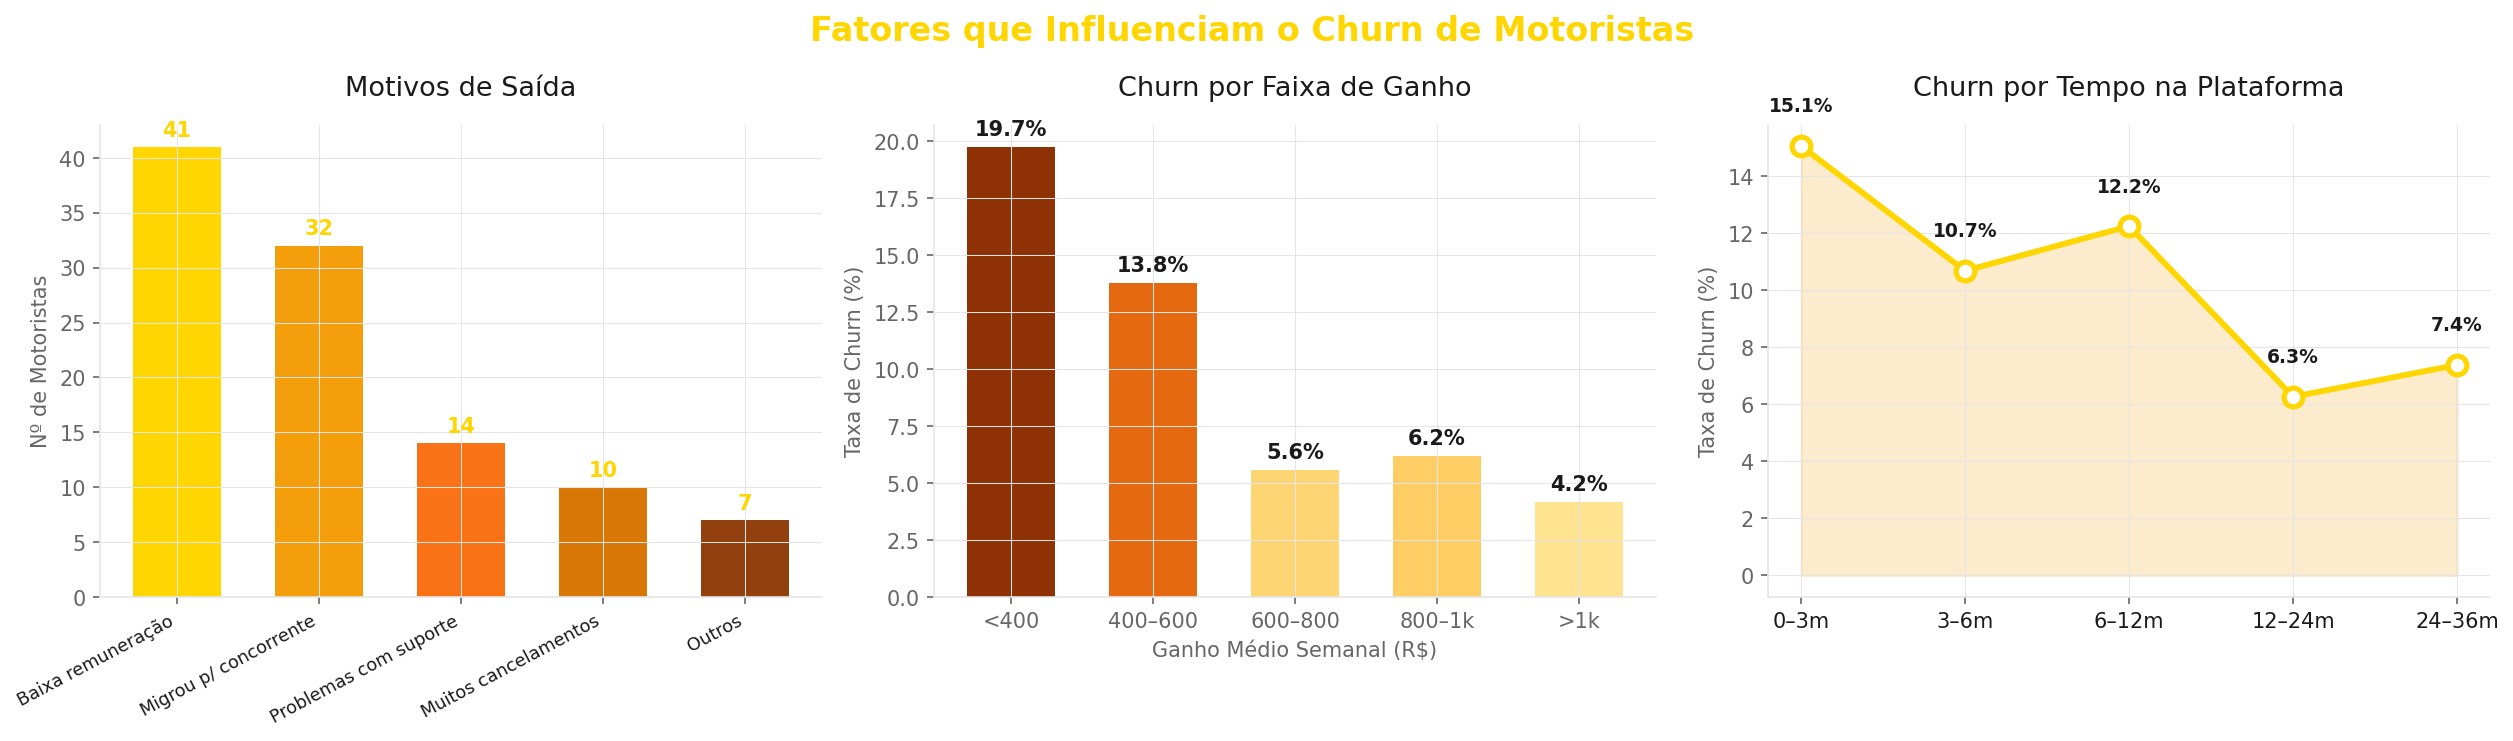
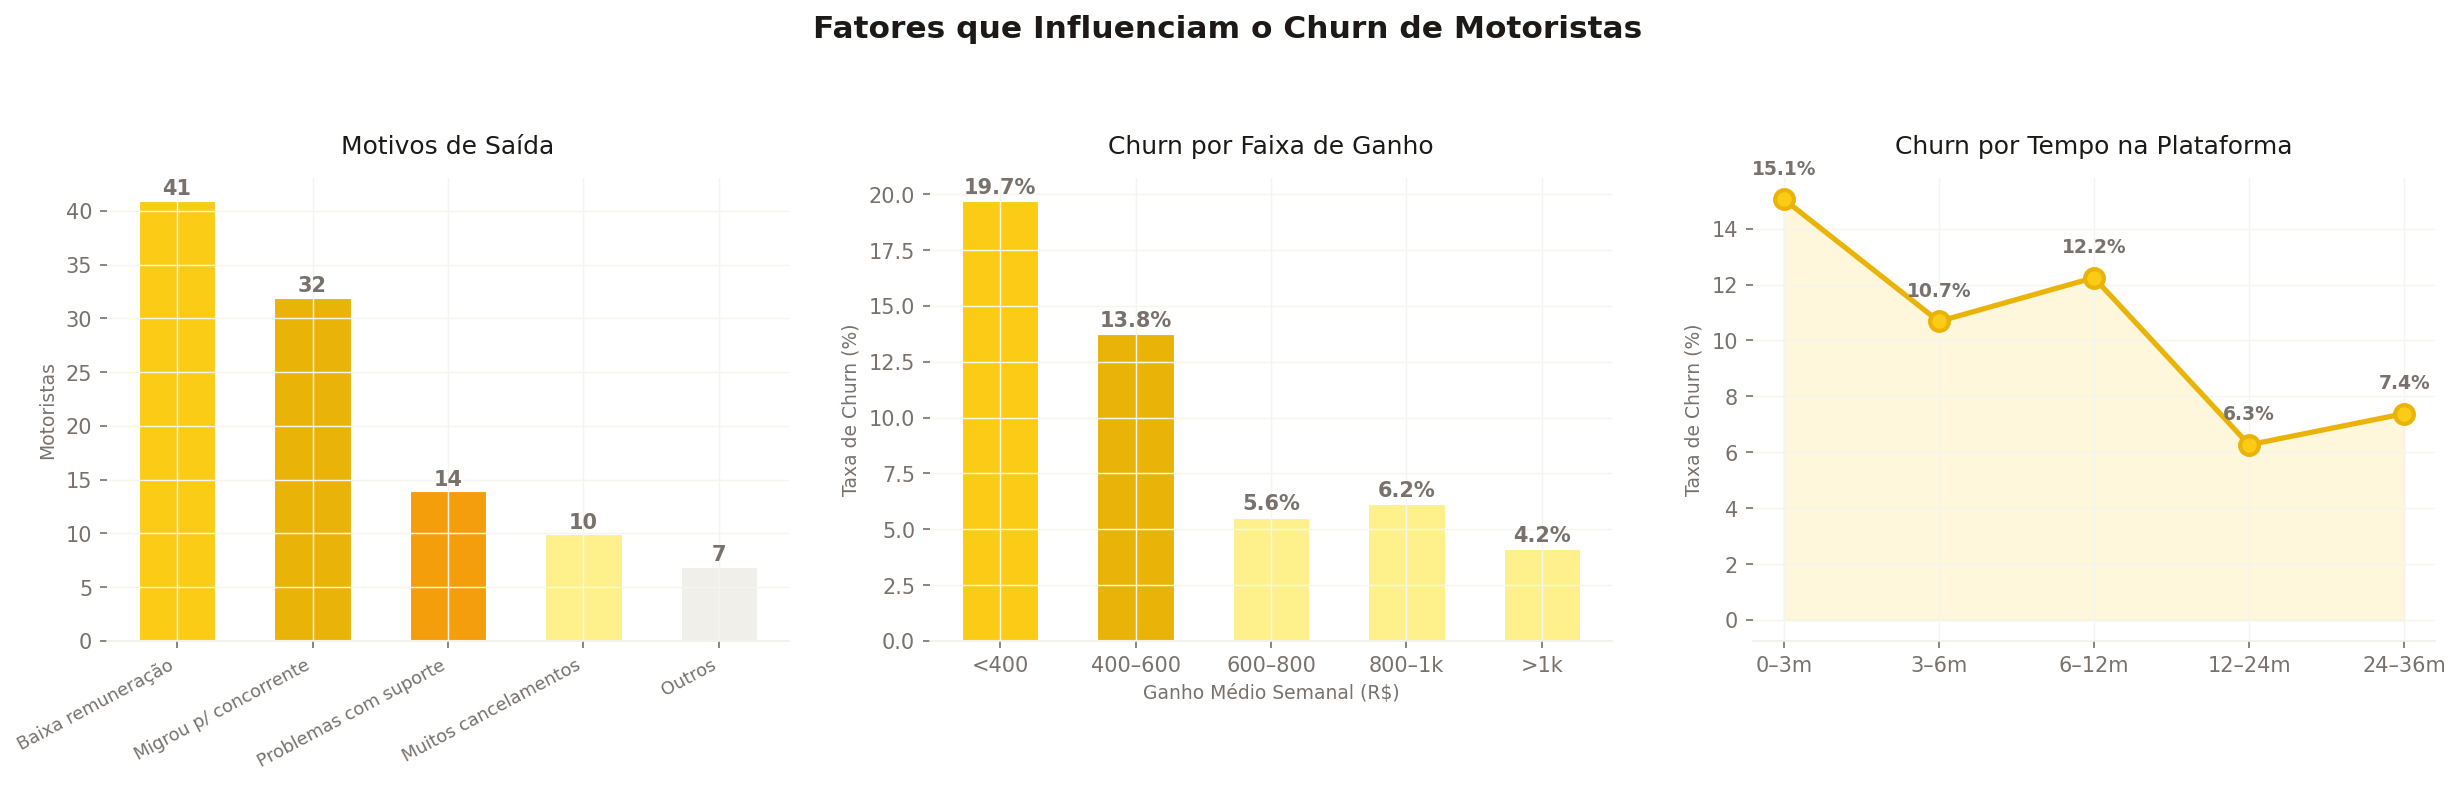
style: modern clean redesign with white bg and light yellow palette

diff --git a/gerar_graficos.py b/gerar_graficos.py
@@ -1,51 +1,55 @@
-"""Gera os 3 gráficos do projeto 99 e salva como PNG."""
+"""Gera os 3 gráficos do projeto 99 — design moderno, fundo branco."""
 import matplotlib
 matplotlib.use("Agg")
 import pandas as pd
 import numpy as np
 import matplotlib.pyplot as plt
+import matplotlib.patches as mpatches
 import seaborn as sns
 from matplotlib.colors import LinearSegmentedColormap
 import warnings
 warnings.filterwarnings("ignore")
 
+# ── Paleta moderna — branco + amarelos claros ────────────────
 BG      = "#FFFFFF"
 CARD    = "#FFFFFF"
-BORDER  = "#E5E5E5"
-TEXT    = "#1A1A1A"
-MUTED   = "#666666"
+SUBTLE  = "#FEFCE8"   # amarelo quase branco — fill de área
+BORDER  = "#F0EFE9"   # borda muito sutil
+TEXT    = "#1C1917"   # quase preto
+MUTED   = "#78716C"   # cinza quente
 
-# Paleta 99 — tons de amarelo
-Y1 = "#FFD600"   # amarelo vivo  → Ativo / destaque
-Y2 = "#F59E0B"   # âmbar dourado → intermediário
-Y3 = "#F97316"   # laranja âmbar → Churn / alerta
-Y4 = "#D97706"   # âmbar escuro  → 4º tom
-Y5 = "#92400E"   # castanho âmbar→ 5º tom
+Y_BRIGHT = "#FACC15"  # amarelo vivo — Ativo / destaque
+Y_MID    = "#EAB308"  # dourado — linha / referência
+Y_LIGHT  = "#FEF08A"  # amarelo claro — fill
+Y_DEEP   = "#CA8A04"  # âmbar escuro — Churn / contraste
+Y_WARM   = "#F59E0B"  # âmbar médio — gradiente
 
-CORES_BARRA   = [Y1, Y2, Y3, Y4, Y5]
-CORES_STATUS  = [Y1, Y3]          # Ativo=amarelo, Churn=laranja
+CORES_STATUS = [Y_BRIGHT, Y_DEEP]   # Ativo, Churn
 
 plt.rcParams.update({
     "figure.facecolor":  BG,
-    "axes.facecolor":    CARD,
+    "axes.facecolor":    BG,
     "axes.edgecolor":    BORDER,
     "axes.labelcolor":   MUTED,
     "axes.titlecolor":   TEXT,
-    "axes.titlesize":    13,
-    "axes.labelsize":    10,
-    "axes.titlepad":     14,
+    "axes.titlesize":    12,
+    "axes.labelsize":    9,
+    "axes.titlepad":     12,
     "axes.spines.top":   False,
     "axes.spines.right": False,
+    "axes.spines.left":  False,
+    "axes.spines.bottom": True,
     "axes.grid":         True,
-    "grid.color":        BORDER,
-    "grid.linewidth":    0.5,
+    "grid.color":        "#F5F5F0",
+    "grid.linewidth":    0.7,
     "xtick.color":       MUTED,
     "ytick.color":       MUTED,
     "text.color":        TEXT,
     "font.family":       "DejaVu Sans",
-    "legend.facecolor":  CARD,
+    "legend.facecolor":  BG,
     "legend.edgecolor":  BORDER,
     "legend.labelcolor": TEXT,
+    "legend.framealpha": 1,
 })
 
 np.random.seed(42)
@@ -82,163 +86,178 @@ df.loc[df["churn"]==1,"motivo_saida"] = np.random.choice(
     motivos, df["churn"].sum(), p=[0.35,0.28,0.17,0.13,0.07])
 df["motivo_saida"] = df["motivo_saida"].fillna("—")
 
-# ── FIG 1: Visão Geral ──────────────────────────────────────────────────────
+# ── FIG 1: Visão Geral ──────────────────────────────────────
 fig, axes = plt.subplots(2, 2, figsize=(15, 10))
 fig.patch.set_facecolor(BG)
 fig.suptitle("Análise de Retenção de Motoristas — 99",
-             fontsize=18, fontweight="bold", color=Y4, y=1.01)
+             fontsize=17, fontweight="bold", color=TEXT, y=1.01)
 
-# 1a. Rosca — distribuição de status
-ax = axes[0,0]; ax.set_facecolor(CARD)
+# 1a. Rosca — status
+ax = axes[0,0]; ax.set_facecolor(BG); ax.axis("off")
 contagem = df["status"].value_counts()
 wedges, _, autotexts = ax.pie(
     contagem, labels=None, autopct="%1.1f%%",
-    colors=CORES_STATUS, startangle=90, pctdistance=0.75,
-    wedgeprops=dict(edgecolor=BG, linewidth=3, width=0.55))
+    colors=CORES_STATUS, startangle=90, pctdistance=0.78,
+    wedgeprops=dict(edgecolor=BG, linewidth=4, width=0.5))
 for at in autotexts:
-    at.set_fontsize(13); at.set_fontweight("bold"); at.set_color("white")
-ax.legend(["Ativo","Inativo (Churn)"], loc="center", fontsize=10,
-          facecolor=CARD, edgecolor=BORDER, labelcolor=TEXT)
-ax.text(0, 0, f"{df['churn'].sum()}\nchurn",
-        ha="center", va="center", fontsize=12, color=Y3, fontweight="bold")
-ax.set_title("Distribuição de Status", color=TEXT)
+    at.set_fontsize(12); at.set_fontweight("bold"); at.set_color("white")
+churn_n = df["churn"].sum()
+ativo_n = N - churn_n
+ax.text(0, 0.12, f"{ativo_n}", ha="center", va="center",
+        fontsize=22, color=Y_BRIGHT, fontweight="bold")
+ax.text(0, -0.12, f"{churn_n}", ha="center", va="center",
+        fontsize=16, color=Y_DEEP, fontweight="bold")
+legend_els = [
+    mpatches.Patch(facecolor=Y_BRIGHT, label=f"Ativo  ({ativo_n})"),
+    mpatches.Patch(facecolor=Y_DEEP,   label=f"Churn  ({churn_n})"),
+]
+ax.legend(handles=legend_els, loc="lower center", bbox_to_anchor=(0.5,-0.08),
+          ncol=2, fontsize=9, frameon=False)
+ax.set_title("Distribuição de Status", color=TEXT, fontsize=12, pad=10)
 
-# 1b. Boxplot — avaliação vs status
-ax = axes[0,1]; ax.set_facecolor(CARD)
+# 1b. Boxplot — avaliação
+ax = axes[0,1]; ax.set_facecolor(BG)
 grupos = [df[df["churn"]==0]["avaliacao_media"], df[df["churn"]==1]["avaliacao_media"]]
-bp = ax.boxplot(grupos, patch_artist=True, widths=0.45,
-                medianprops=dict(color="white", linewidth=2.5),
-                whiskerprops=dict(color=MUTED, linewidth=1.5),
-                capprops=dict(color=MUTED, linewidth=1.5),
-                flierprops=dict(marker="o", markerfacecolor=MUTED, markersize=4, alpha=0.5))
-bp["boxes"][0].set_facecolor(Y1); bp["boxes"][0].set_edgecolor(Y2)
-bp["boxes"][1].set_facecolor(Y3); bp["boxes"][1].set_edgecolor(Y4)
-ax.set_xticks([1,2]); ax.set_xticklabels(["Ativo","Inativo (Churn)"], color=TEXT)
-ax.set_ylabel("Avaliação Média")
-ax.set_title("Avaliação Média × Status", color=TEXT)
-ax.axhline(4.0, color=Y4, linewidth=1.8, linestyle="--", alpha=0.85, label="Limite 4.0")
-ax.legend(fontsize=9)
-ax.spines["left"].set_color(BORDER); ax.spines["bottom"].set_color(BORDER)
+bp = ax.boxplot(grupos, patch_artist=True, widths=0.38,
+                medianprops=dict(color=TEXT, linewidth=2.2),
+                whiskerprops=dict(color=MUTED, linewidth=1.3),
+                capprops=dict(color=MUTED, linewidth=1.3),
+                flierprops=dict(marker="o", markerfacecolor=BORDER,
+                                markeredgecolor=MUTED, markersize=4, alpha=0.7))
+bp["boxes"][0].set_facecolor(Y_LIGHT); bp["boxes"][0].set_edgecolor(Y_MID)
+bp["boxes"][1].set_facecolor(Y_WARM+"44"); bp["boxes"][1].set_edgecolor(Y_DEEP)
+ax.set_xticks([1,2]); ax.set_xticklabels(["Ativo","Inativo (Churn)"], color=TEXT, fontsize=10)
+ax.set_ylabel("Avaliação Média"); ax.set_title("Avaliação Média × Status")
+ax.axhline(4.0, color=Y_MID, linewidth=1.5, linestyle="--", alpha=0.9, label="Limite 4.0")
+ax.legend(fontsize=9, frameon=False)
+ax.spines["bottom"].set_color(BORDER)
 
 # 1c. Barras horizontais — churn por cidade
-ax = axes[1,0]; ax.set_facecolor(CARD)
+ax = axes[1,0]; ax.set_facecolor(BG)
 churn_cidade = df.groupby("cidade")["churn"].mean().sort_values()*100
 media = churn_cidade.mean()
-vals = churn_cidade.values
-norm = (vals - vals.min()) / (vals.max() - vals.min() + 1e-9)
-cores_c = [plt.cm.YlOrBr(0.3 + 0.6*v) for v in norm]
-bars = ax.barh(churn_cidade.index, vals, color=cores_c, edgecolor="none", height=0.6)
-ax.axvline(media, color=Y4, linewidth=1.6, linestyle="--",
-           alpha=0.8, label=f"Média: {media:.1f}%")
-ax.set_xlabel("Taxa de Churn (%)")
-ax.set_title("Taxa de Churn por Cidade", color=TEXT)
-ax.legend(fontsize=9)
-ax.spines["left"].set_color(BORDER); ax.spines["bottom"].set_color(BORDER)
-for bar, val in zip(bars, vals):
-    ax.text(val+0.3, bar.get_y()+bar.get_height()/2,
-            f"{val:.1f}%", va="center", fontsize=9, color=TEXT)
+cores_c = [Y_BRIGHT if v == churn_cidade.max() else Y_LIGHT for v in churn_cidade.values]
+bars = ax.barh(churn_cidade.index, churn_cidade.values,
+               color=cores_c, edgecolor=BORDER, linewidth=0.8, height=0.55)
+ax.axvline(media, color=Y_MID, linewidth=1.4, linestyle="--",
+           alpha=0.9, label=f"Média  {media:.1f}%")
+ax.set_xlabel("Taxa de Churn (%)"); ax.set_title("Taxa de Churn por Cidade")
+ax.legend(fontsize=9, frameon=False)
+ax.spines["bottom"].set_color(BORDER)
+ax.grid(axis="x", color="#F5F5F0", linewidth=0.7)
+ax.grid(axis="y", visible=False)
+for bar, val in zip(bars, churn_cidade.values):
+    ax.text(val+0.2, bar.get_y()+bar.get_height()/2,
+            f"{val:.1f}%", va="center", fontsize=9,
+            color=TEXT, fontweight="bold" if val==churn_cidade.max() else "normal")
 
-# 1d. Scatter — corridas vs ganho
-ax = axes[1,1]; ax.set_facecolor(CARD)
+# 1d. Scatter — corridas vs ganho (com jitter)
+ax = axes[1,1]; ax.set_facecolor(BG)
 mask = df["churn"]==0
-ax.scatter(df[mask]["corridas_por_semana"],  df[mask]["ganho_medio_semanal_r$"],
-           c=Y1, alpha=0.30, s=20, label="Ativo")
-ax.scatter(df[~mask]["corridas_por_semana"], df[~mask]["ganho_medio_semanal_r$"],
-           c=Y3, alpha=0.40, s=20, label="Churn")
-ax.axhline(500, color=Y4, linewidth=1.5, linestyle="--", alpha=0.85, label="R$ 500/sem")
+jx_a = df[mask]["corridas_por_semana"]  + np.random.uniform(-0.35,0.35,mask.sum())
+jx_c = df[~mask]["corridas_por_semana"] + np.random.uniform(-0.35,0.35,(~mask).sum())
+ax.scatter(jx_a, df[mask]["ganho_medio_semanal_r$"],
+           c=Y_BRIGHT, alpha=0.35, s=16, label="Ativo", linewidths=0)
+ax.scatter(jx_c, df[~mask]["ganho_medio_semanal_r$"],
+           c=Y_DEEP, alpha=0.45, s=16, label="Churn", linewidths=0)
+ax.axhline(500, color=Y_MID, linewidth=1.5, linestyle="--", alpha=0.9, label="R$ 500/sem")
 ax.set_xlabel("Corridas por Semana"); ax.set_ylabel("Ganho Médio Semanal (R$)")
-ax.set_title("Corridas × Ganho por Status", color=TEXT)
-ax.legend(fontsize=9)
-ax.spines["left"].set_color(BORDER); ax.spines["bottom"].set_color(BORDER)
+ax.set_title("Corridas × Ganho por Status")
+ax.legend(fontsize=9, frameon=False)
+ax.spines["bottom"].set_color(BORDER)
 
-plt.tight_layout()
+plt.tight_layout(pad=2.5)
 plt.savefig("fig1 visao geral.png", dpi=150, bbox_inches="tight", facecolor=BG)
 plt.close()
-print("✅ fig1 salva")
+print("fig1 salva")
 
-# ── FIG 2: Fatores ──────────────────────────────────────────────────────────
-fig, axes = plt.subplots(1, 3, figsize=(17, 5))
+# ── FIG 2: Fatores ──────────────────────────────────────────
+fig, axes = plt.subplots(1, 3, figsize=(17, 5.5))
 fig.patch.set_facecolor(BG)
 fig.suptitle("Fatores que Influenciam o Churn de Motoristas",
-             fontsize=16, fontweight="bold", color=Y1)
+             fontsize=15, fontweight="bold", color=TEXT)
 
 # 2a. Motivos de saída
-ax = axes[0]; ax.set_facecolor(CARD)
+ax = axes[0]; ax.set_facecolor(BG)
 motivos_count = df[df["churn"]==1]["motivo_saida"].value_counts()
+pal = [Y_BRIGHT, Y_MID, Y_WARM, Y_LIGHT, BORDER]
 bars = ax.bar(range(len(motivos_count)), motivos_count.values,
-              color=CORES_BARRA[:len(motivos_count)], edgecolor="none", width=0.62)
+              color=pal[:len(motivos_count)], edgecolor=BG, linewidth=1.5, width=0.58)
 ax.set_xticks(range(len(motivos_count)))
-ax.set_xticklabels(motivos_count.index, rotation=28, ha="right", fontsize=8.5, color=TEXT)
-ax.set_ylabel("Nº de Motoristas")
-ax.set_title("Motivos de Saída", color=TEXT)
-ax.spines["left"].set_color(BORDER); ax.spines["bottom"].set_color(BORDER)
+ax.set_xticklabels(motivos_count.index, rotation=28, ha="right", fontsize=8.5)
+ax.set_ylabel("Motoristas"); ax.set_title("Motivos de Saída")
+ax.spines["bottom"].set_color(BORDER)
 for bar, val in zip(bars, motivos_count.values):
-    ax.text(bar.get_x()+bar.get_width()/2, bar.get_height()+1,
-            str(val), ha="center", fontsize=10, fontweight="bold", color=Y1)
+    ax.text(bar.get_x()+bar.get_width()/2, bar.get_height()+0.5,
+            str(val), ha="center", fontsize=10, fontweight="bold", color=MUTED)
 
 # 2b. Churn por faixa de ganho
-ax = axes[1]; ax.set_facecolor(CARD)
+ax = axes[1]; ax.set_facecolor(BG)
 bins = [0,400,600,800,1000,1800]; labels_ganho=["<400","400–600","600–800","800–1k",">1k"]
 df["faixa_ganho"] = pd.cut(df["ganho_medio_semanal_r$"], bins=bins, labels=labels_ganho)
 churn_ganho = df.groupby("faixa_ganho", observed=True)["churn"].mean()*100
-vals_g = churn_ganho.values
-norm_g = (vals_g - vals_g.min()) / (vals_g.max() - vals_g.min() + 1e-9)
-cores_g = [plt.cm.YlOrBr(0.25 + 0.65*v) for v in norm_g]
-bars = ax.bar(churn_ganho.index, vals_g, color=cores_g, edgecolor="none", width=0.62)
+cores_g = [Y_BRIGHT if v == churn_ganho.max()
+           else Y_MID if v >= churn_ganho.quantile(0.6)
+           else Y_LIGHT for v in churn_ganho.values]
+bars = ax.bar(churn_ganho.index, churn_ganho.values,
+              color=cores_g, edgecolor=BG, linewidth=1.5, width=0.58)
 ax.set_xlabel("Ganho Médio Semanal (R$)"); ax.set_ylabel("Taxa de Churn (%)")
-ax.set_title("Churn por Faixa de Ganho", color=TEXT)
-ax.spines["left"].set_color(BORDER); ax.spines["bottom"].set_color(BORDER)
-for bar, val in zip(bars, vals_g):
-    ax.text(bar.get_x()+bar.get_width()/2, bar.get_height()+0.5,
-            f"{val:.1f}%", ha="center", fontsize=10, fontweight="bold", color=TEXT)
+ax.set_title("Churn por Faixa de Ganho")
+ax.spines["bottom"].set_color(BORDER)
+for bar, val in zip(bars, churn_ganho.values):
+    ax.text(bar.get_x()+bar.get_width()/2, bar.get_height()+0.3,
+            f"{val:.1f}%", ha="center", fontsize=10, fontweight="bold", color=MUTED)
 
 # 2c. Churn por tempo na plataforma
-ax = axes[2]; ax.set_facecolor(CARD)
+ax = axes[2]; ax.set_facecolor(BG)
 bins_t=[0,3,6,12,24,36]; labels_t=["0–3m","3–6m","6–12m","12–24m","24–36m"]
 df["faixa_tempo"] = pd.cut(df["tempo_plataforma_meses"], bins=bins_t, labels=labels_t)
 churn_tempo = df.groupby("faixa_tempo", observed=True)["churn"].mean()*100
-xs = range(len(churn_tempo))
-ax.fill_between(xs, churn_tempo.values, alpha=0.20, color=Y2)
-ax.plot(xs, churn_tempo.values, color=Y1, linewidth=2.8, marker="o", markersize=9,
-        markerfacecolor=BG, markeredgecolor=Y1, markeredgewidth=2.5)
-ax.set_xticks(xs); ax.set_xticklabels(churn_tempo.index, color=TEXT)
-ax.set_ylabel("Taxa de Churn (%)")
-ax.set_title("Churn por Tempo na Plataforma", color=TEXT)
-ax.spines["left"].set_color(BORDER); ax.spines["bottom"].set_color(BORDER)
+xs = list(range(len(churn_tempo)))
+ax.fill_between(xs, churn_tempo.values, alpha=0.15, color=Y_BRIGHT)
+ax.plot(xs, churn_tempo.values, color=Y_MID, linewidth=2.5,
+        marker="o", markersize=9, markerfacecolor=Y_BRIGHT,
+        markeredgecolor=Y_MID, markeredgewidth=2)
+ax.set_xticks(xs); ax.set_xticklabels(churn_tempo.index)
+ax.set_ylabel("Taxa de Churn (%)"); ax.set_title("Churn por Tempo na Plataforma")
+ax.spines["bottom"].set_color(BORDER)
 for i, val in enumerate(churn_tempo.values):
-    ax.text(i, val+1.2, f"{val:.1f}%", ha="center", fontsize=9, fontweight="bold", color=TEXT)
+    ax.text(i, val+0.9, f"{val:.1f}%", ha="center", fontsize=9,
+            fontweight="bold", color=MUTED)
 
-plt.tight_layout()
+plt.tight_layout(pad=2.5)
 plt.savefig("fig2 fatores churn.png", dpi=150, bbox_inches="tight", facecolor=BG)
 plt.close()
-print("✅ fig2 salva")
+print("fig2 salva")
 
-# ── FIG 3: Correlação ───────────────────────────────────────────────────────
+# ── FIG 3: Correlação ───────────────────────────────────────
 fig, ax = plt.subplots(figsize=(10,7))
-fig.patch.set_facecolor(BG); ax.set_facecolor(CARD)
+fig.patch.set_facecolor(BG); ax.set_facecolor(BG)
 
 cols_num = ["churn","avaliacao_media","ganho_medio_semanal_r$","corridas_por_semana",
             "cancelamentos_mes","tempo_plataforma_meses","suporte_acionado","bonus_recebido"]
 corr = df[cols_num].corr()
-labels_pt = ["Churn","Avaliação","Ganho Sem.","Corridas/Sem.","Cancelamentos","Tempo Plataf.","Suporte","Bônus"]
+labels_pt = ["Churn","Avaliação","Ganho Sem.","Corridas/Sem.",
+             "Cancelamentos","Tempo Plataf.","Suporte","Bônus"]
 
 mask = np.triu(np.ones_like(corr, dtype=bool))
-cmap_99 = LinearSegmentedColormap.from_list("99amber", [Y5, "#2A2A2A", Y1])
+cmap_99 = LinearSegmentedColormap.from_list("99light", ["#FFFBEB", Y_LIGHT, Y_BRIGHT, Y_MID])
 
 sns.heatmap(corr, mask=mask, annot=True, fmt=".2f", cmap=cmap_99,
-            center=0, ax=ax, xticklabels=labels_pt, yticklabels=labels_pt,
-            linewidths=0.8, linecolor=BG,
+            vmin=-0.2, vmax=0.2,
+            ax=ax, xticklabels=labels_pt, yticklabels=labels_pt,
+            linewidths=2, linecolor=BG,
             annot_kws={"size":10, "color":TEXT},
-            cbar_kws={"shrink":0.75})
-ax.set_xticklabels(ax.get_xticklabels(), color=TEXT, fontsize=9, rotation=35, ha="right")
-ax.set_yticklabels(ax.get_yticklabels(), color=TEXT, fontsize=9, rotation=0)
+            cbar_kws={"shrink":0.7})
+ax.set_xticklabels(ax.get_xticklabels(), color=MUTED, fontsize=9, rotation=35, ha="right")
+ax.set_yticklabels(ax.get_yticklabels(), color=MUTED, fontsize=9, rotation=0)
 ax.set_title("Correlação entre Variáveis e Churn",
-             fontsize=14, fontweight="bold", color=Y1, pad=16)
+             fontsize=14, fontweight="bold", color=TEXT, pad=16)
 ax.collections[0].colorbar.ax.yaxis.set_tick_params(color=MUTED)
 plt.setp(ax.collections[0].colorbar.ax.yaxis.get_ticklabels(), color=MUTED)
 
 plt.tight_layout()
 plt.savefig("fig3 correlacao.png", dpi=150, bbox_inches="tight", facecolor=BG)
 plt.close()
-print("✅ fig3 salva")
-print("\n🎉 Todos os gráficos gerados!")
+print("fig3 salva")
+print("todos os graficos gerados!")